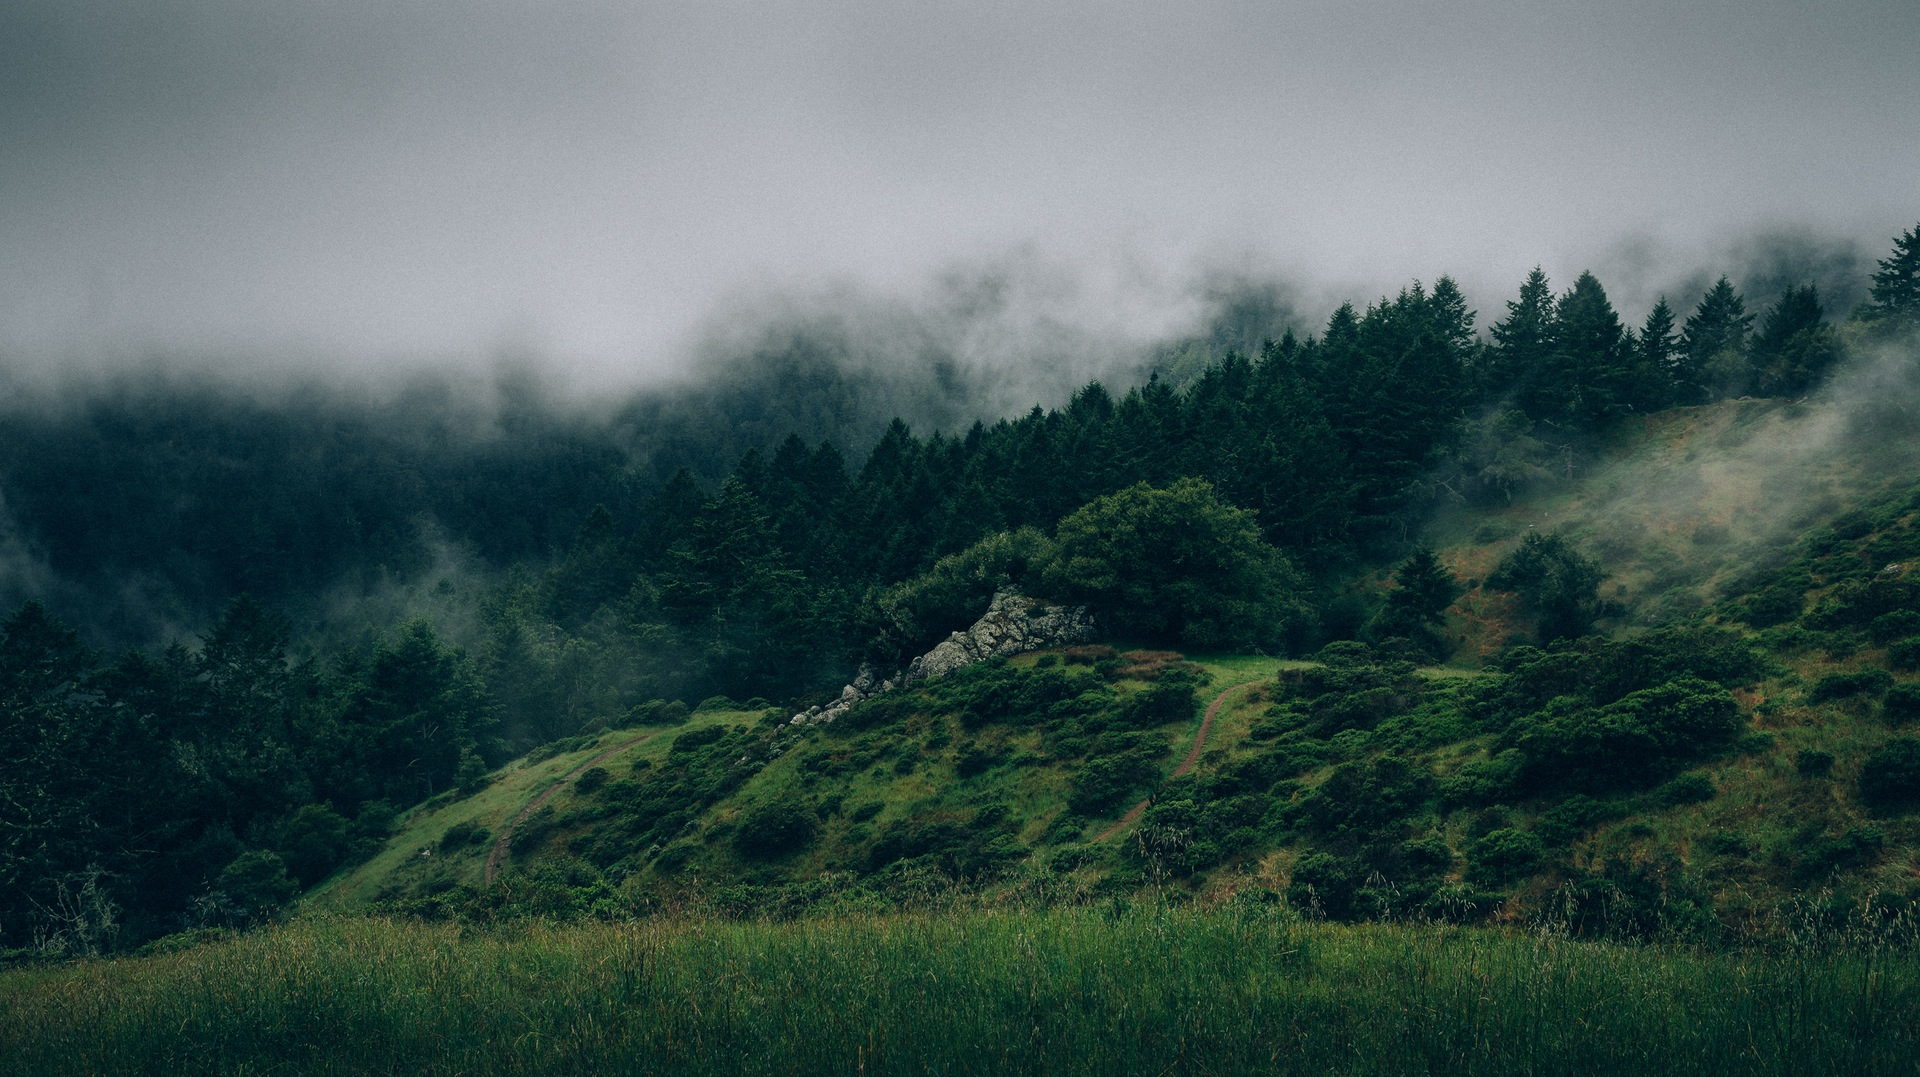
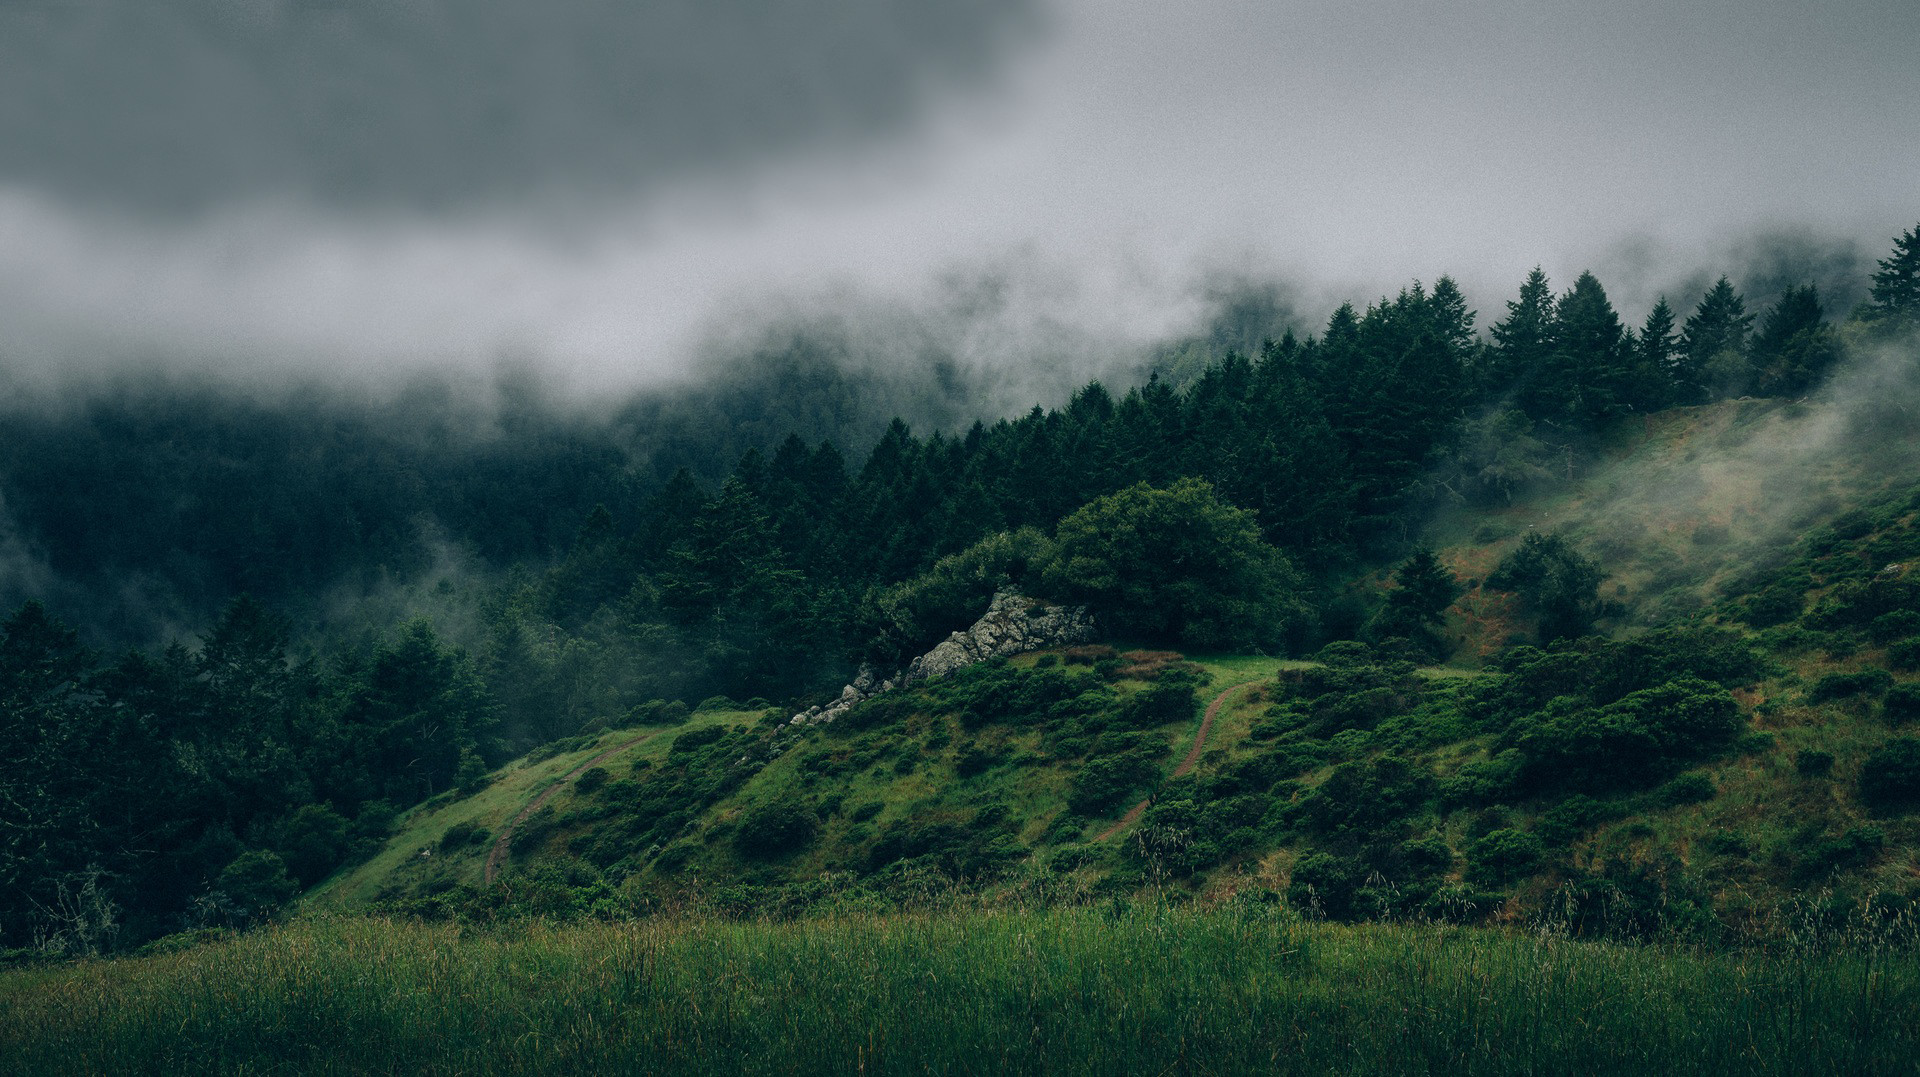
Nova naslovnica

Changed region(s): [[0.0625, 0.0, 0.5625, 0.2451], [0.0, 0.1838, 0.0312, 0.2451]]

diff --git a/css/style.css b/css/style.css
@@ -157,7 +157,7 @@ a:focus {
     padding: 100px 0;
     text-align: center;
     color: #fff;
-    background: #654f41 url(../img/danevidimo.png) no-repeat scroll bottom center;
+    background: #654f41 url(../img/naslovna.jpg) no-repeat scroll bottom center;
     -webkit-background-size: cover;
     -moz-background-size: cover;
     background-size: cover;
